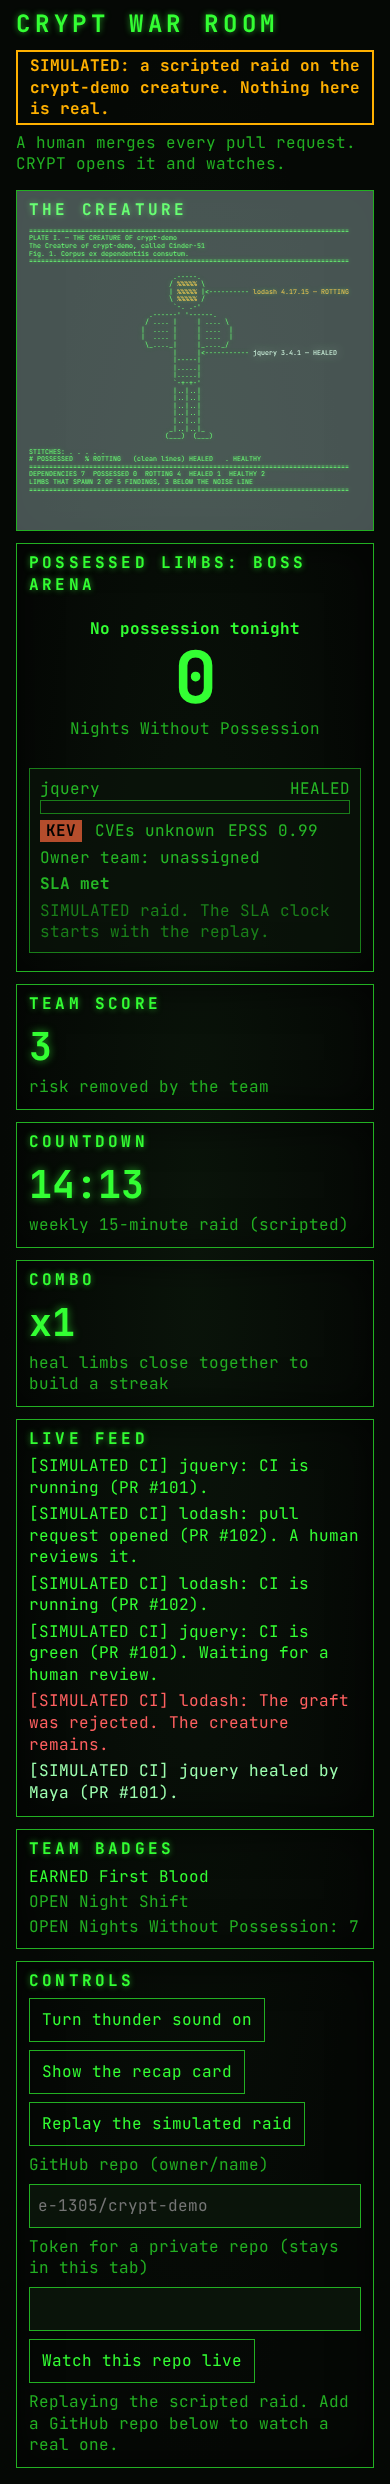
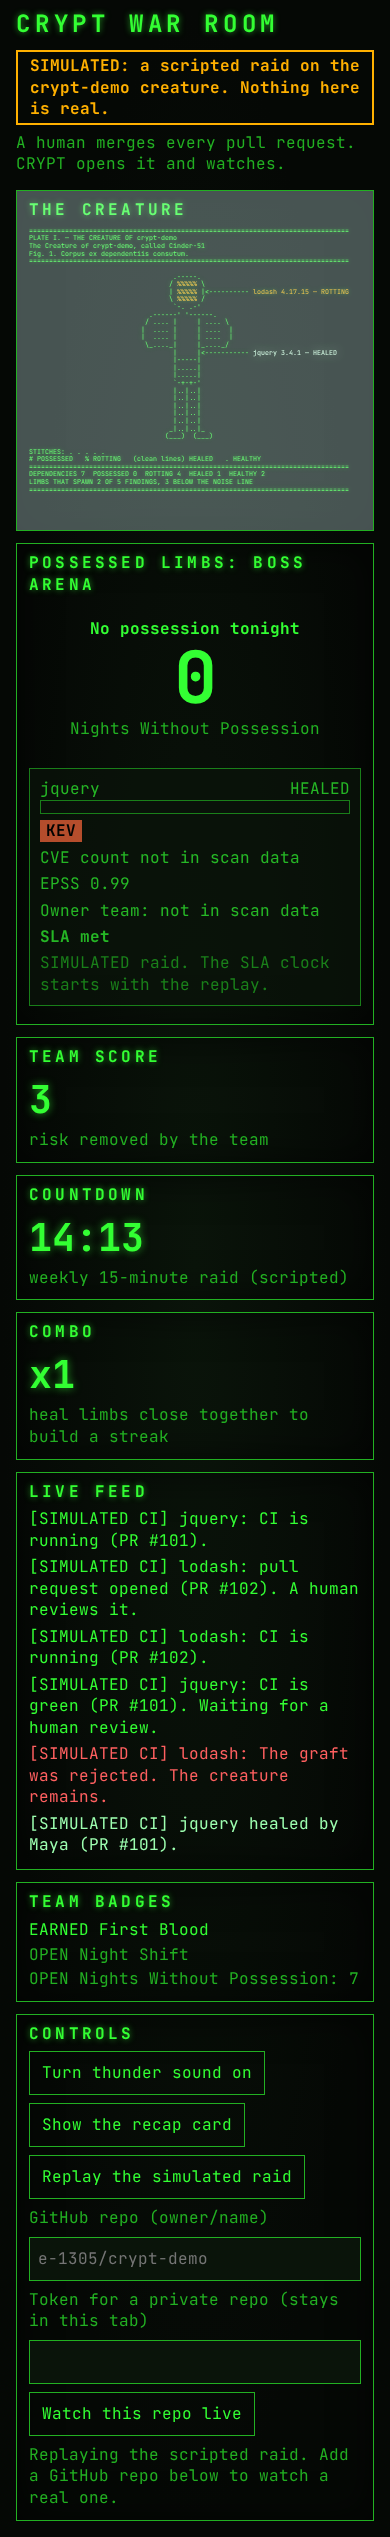
fix: address war room review (live SLA start unknown, exact rejection line, same-time heal, data-gap labels)

diff --git a/src/warroom/state.ts b/src/warroom/state.ts
@@ -42,6 +42,8 @@ export interface Boss {
   team: string | null;
   /** Ms left of the 48h SLA, counted from detection (or the raid start). 0 or less means overdue. null once healed. */
   slaRemainingMs: number | null;
+  /** Where the SLA clock starts: the limb's detection time, the replay start (simulated), or unknown (live, no detection time). */
+  slaStart: "detected" | "replay" | "unknown";
 }
 
 /** A rejection line is tied to the limb whose CI went red. */
@@ -130,7 +132,7 @@ function line(ev: WarEvent, name: string): string {
 }
 
 /** Builds the scene. Only Possessed and Rotting limbs take part. Events for other limbs are ignored. */
-export function sceneFrom(events: readonly unknown[] | WarState, limbs: readonly WarLimb[], now: number, opts: { raidStart?: number; scanStart?: number } = {}): Scene {
+export function sceneFrom(events: readonly unknown[] | WarState, limbs: readonly WarLimb[], now: number, opts: { raidStart?: number; scanStart?: number; live?: boolean } = {}): Scene {
   const log = Array.isArray(events) ? reduceAll(events).events : (events as WarState).events;
   const sick = limbs.filter((l) => l.state === "Possessed" || l.state === "Rotting");
   const byKey = new Map<string, { limb: WarLimb; view: SceneLimb; healedAt?: number }>();
@@ -173,16 +175,18 @@ export function sceneFrom(events: readonly unknown[] | WarState, limbs: readonly
     const o = l;
     const cves = Array.isArray(o.cves) ? o.cves.length : finite(o.cveCount) && o.cveCount >= 0 ? Math.floor(o.cveCount) : null;
     const team = typeof o.ownerTeam === "string" && clean(o.ownerTeam, 40).trim() !== "" ? clean(o.ownerTeam, 40).trim() : null;
+    // Live mode never starts the clock at page load: without a detection time the SLA start is unknown.
+    const slaStart: Boss["slaStart"] = finite(l.detectedAt) ? "detected" : opts.live === true ? "unknown" : "replay";
     const since = finite(l.detectedAt) ? l.detectedAt : start;
     return {
       key, name: clean(l.name, 40) || "unnamed", hp: healed ? 0 : bossHp(l.epss, l.exposure), healed, kev: true,
       epss: finite(l.epss) && l.epss >= 0 && l.epss <= 1 ? l.epss : null, cves, team,
-      slaRemainingMs: healed || !finite(now) ? null : SLA_KEV_MS - Math.max(0, now - since),
+      slaRemainingMs: healed || slaStart === "unknown" || !finite(now) ? null : SLA_KEV_MS - Math.max(0, now - since), slaStart,
     };
   });
-  // The rejection stays only while its limb is still red (no later event for it) and no limb was healed after it.
+  // The rejection stays only while its limb is still red (no later event for it) and no limb was healed at or after it (a same-time heal sorts after ci-red).
   const red = [...effects].reverse().find((e) => e.kind === "convulse" && byKey.get(e.limb)?.view.phase === "ci-red");
-  const healedAfter = red !== undefined && effects.some((e) => e.kind === "heal" && e.at > red.at);
+  const healedAfter = red !== undefined && effects.some((e) => e.kind === "heal" && e.at >= red.at);
   const rejection: Rejection | null = red && red.kind === "convulse" && !healedAfter
     ? { limb: red.limb, name: byKey.get(red.limb)?.view.name ?? red.limb, line: red.line, at: red.at }
     : null;

diff --git a/web/war-room/war-room.js b/web/war-room/war-room.js
@@ -171,11 +171,12 @@ function drawBosses(scene) {
     const facts = mk("p", "boss-facts");
     facts.append(
       mk("span", "kev-badge", "KEV"),
-      mk("span", "", (b.cves === null ? "CVEs unknown" : b.cves + (b.cves === 1 ? " CVE" : " CVEs"))),
+      mk("span", "", (b.cves === null ? "CVE count not in scan data" : b.cves + (b.cves === 1 ? " CVE" : " CVEs"))),
       mk("span", "", "EPSS " + (b.epss === null ? "unknown" : b.epss.toFixed(2))),
-      mk("span", "", "Owner team: " + (b.team ?? "unassigned")),
+      mk("span", "", "Owner team: " + (b.team ?? "not in scan data")),
     );
-    const sla = mk("p", "boss-sla" + (!b.healed && b.slaRemainingMs <= 0 ? " overdue" : ""), b.healed ? "SLA met" : slaText(b.slaRemainingMs));
+    const unknownSla = !b.healed && b.slaRemainingMs === null;
+    const sla = mk("p", "boss-sla" + (!b.healed && !unknownSla && b.slaRemainingMs <= 0 ? " overdue" : ""), b.healed ? "SLA met" : unknownSla ? "SLA start unknown (no detection time)" : slaText(b.slaRemainingMs));
     li.append(row, bar, facts, sla);
     if (run.mode === "simulated") li.appendChild(mk("p", "muted boss-sim", "SIMULATED raid. The SLA clock starts with the replay."));
     el.bossList.appendChild(li);
@@ -222,7 +223,7 @@ async function showRecap(scene) {
 
 function render(now) {
   const visible = run.mode === "simulated" ? run.events.filter((e) => e.at <= now) : run.events;
-  const scene = sceneFrom(visible, run.limbs, now, { raidStart: run.t0, scanStart: run.scanStart });
+  const scene = sceneFrom(visible, run.limbs, now, { raidStart: run.t0, scanStart: run.scanStart, live: run.mode !== "simulated" });
   run.scene = scene;
   // New effects: thunder and flash once per heal, the rejection line while a limb stays red.
   for (const fx of scene.effects) {
@@ -233,7 +234,13 @@ function render(now) {
   }
   // Tied to its limb: gone when that limb's next event arrives or another limb heals. The feed keeps the history.
   const rej = scene.rejection;
-  el.rejection.textContent = rej ? rej.name + ": " + rej.line : "";
+  el.rejection.textContent = "";
+  if (rej) {
+    const who = document.createElement("span");
+    who.className = "rejection-limb";
+    who.textContent = rej.name;
+    el.rejection.append(who, document.createTextNode(" "), document.createTextNode(rej.line));
+  }
   if (rej) el.rejection.dataset.limb = rej.limb; else delete el.rejection.dataset.limb;
   drawPlate(scene, now);
   drawBosses(scene);

diff --git a/tests/warroom.test.ts b/tests/warroom.test.ts
@@ -89,6 +89,20 @@ describe("reduce", () => {
     const done = sceneFrom([{ type: "human-merged", limb: "npm:jquery", at: 1 }], LIMBS, 5).bosses[0]!;
     expect(done.slaRemainingMs).toBeNull();
   });
+  it("live mode never anchors the SLA at page load, and an overdue clock goes negative", () => {
+    const h = 3600_000;
+    const live = sceneFrom([], LIMBS, 5 * h, { raidStart: 0, live: true }).bosses[0]!;
+    expect(live).toMatchObject({ slaRemainingMs: null, slaStart: "unknown" });
+    const known = sceneFrom([], [{ ...LIMBS[0]!, detectedAt: 0 }], 5 * h, { raidStart: 0, live: true }).bosses[0]!;
+    expect(known).toMatchObject({ slaRemainingMs: 43 * h, slaStart: "detected" });
+    const late = sceneFrom([], [{ ...LIMBS[0]!, detectedAt: 0 }], 50 * h, { raidStart: 0 }).bosses[0]!;
+    expect(late.slaRemainingMs).toBeLessThanOrEqual(0);
+    expect(sceneFrom([], LIMBS, 0, { raidStart: 0 }).bosses[0]!.slaStart).toBe("replay");
+  });
+  it("a heal at the same timestamp as the red CI clears the rejection", () => {
+    const red = { type: "ci-red", limb: "npm:lodash", pr: 2, at: 10 };
+    expect(sceneFrom([red, { type: "human-merged", limb: "npm:jquery", pr: 1, at: 10 }], LIMBS, 20).rejection).toBeNull();
+  });
   it("counts Nights Without Possession for the empty arena", () => {
     const day = 86400000;
     expect(sceneFrom([], [LIMBS[1]!], 3 * day, { raidStart: 0, scanStart: 0 }).nights).toBe(3);

diff --git a/tests/warroom-page.test.ts b/tests/warroom-page.test.ts
@@ -30,7 +30,7 @@ describe("war room page", () => {
   });
 
   it("renders boss cards and the empty arena with the nights count, and ties the rejection to its limb", () => {
-    for (const t of ["No possession tonight", "Nights Without Possession", "kev-badge", "boss-sla", "EPSS ", "Owner team:", "SIMULATED raid"]) expect(js).toContain(t);
+    for (const t of ["No possession tonight", "Nights Without Possession", "kev-badge", "boss-sla", "EPSS ", "Owner team:", "SIMULATED raid", "SLA start unknown", "rejection-limb", "not in scan data"]) expect(js).toContain(t);
     expect(js).toContain("scene.rejection");
     expect(css).toMatch(/\.nights\s*\{[^}]*font-size:\s*4/);
   });

diff --git a/web/war-room/war-room.css b/web/war-room/war-room.css
@@ -86,3 +86,5 @@ label { display: block; color: var(--dim); }
   .plate .just-healed, .plate .convulsing, .flash.thunder { animation: none; }
   .bar > span, .rejection { transition: none; }
 }
+.rejection-limb { font-weight: 400; opacity: .85; }
+.rejection-limb::after { content: ":"; }
